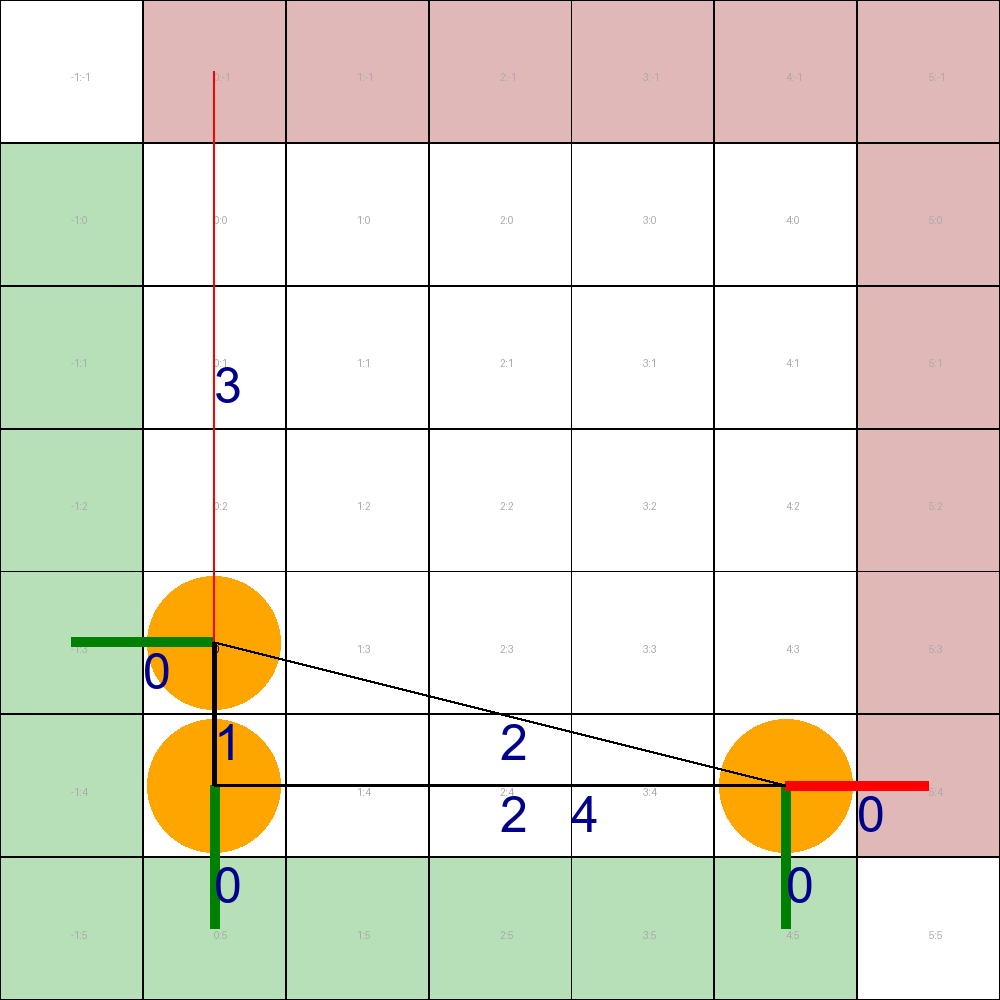
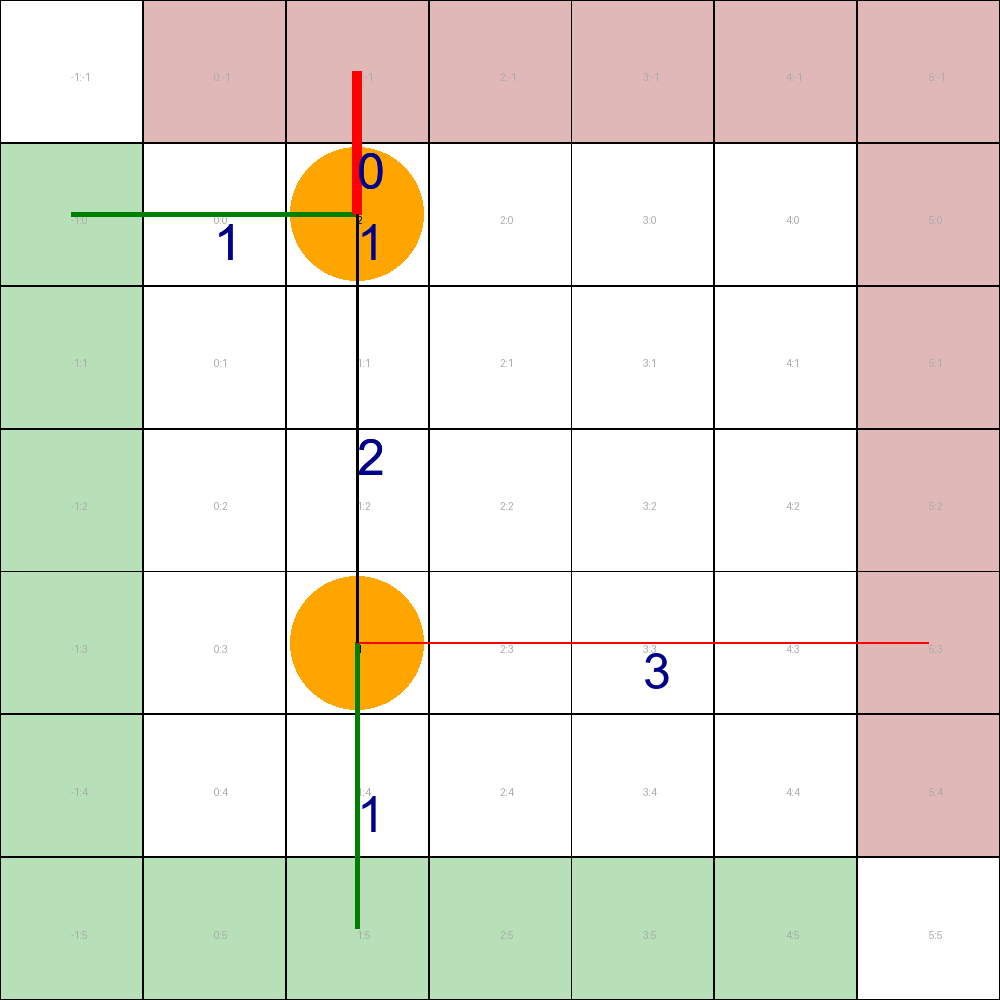
work on path_alg

diff --git a/olympiad/4/path_alg.py b/olympiad/4/path_alg.py
@@ -1,3 +1,7 @@
+def sort_dict(d, by_key=True):
+    if by_key:
+        return dict(sorted(d.items(), key=lambda item: item[1]))
+    return dict(sorted(d.items()))
 
 def fire_time(f1:tuple[int, int], f2:tuple[int, int]) -> int:
     """
@@ -44,7 +48,6 @@ def dist_from_S_E(x, y, n, ret_node_from=False):
 
     return ret_x, ret_y, min(x, n - y -1 ), min(y, n - x - 1)
 
-
 def build_fire_tree(fire_dict, n, m):
     tree = {}
     paths = {}
@@ -70,25 +73,40 @@ def build_fire_tree(fire_dict, n, m):
     tree[m] = {}
     return tree
 
-def find_path(fire_dict, n:int)-> list[int]:
-    """
+class Path:
+    def __init__(self, fire_dict_, n_:int):
+        self.fire_dict = fire_dict_
+        self.n = n_
 
-    Parameters:
-    ----------
+        self.m = len(self.fire_dict)
+        self.fire_tree = build_fire_tree(self.fire_dict, n=self.n,  m=self.m)
+        """-------------------------"""
+        self.max_path_weight = None
 
-    fires: a list with all the fire nodes positions [(x,y) ...]
+        """-------------------------"""
+        self.path = [None]
 
-    Returns
-    -------
-    path: [nodes to take from -1 to m, so min(path) is as small as possible]
+    def find_path(self)-> tuple[list[int], int]:
+        """
+        Parameters:
+        ----------
 
-    Description:
-    -------
-    1)  Build a fire_tree with the data from each node to other nodes: {node.nr: {node.nr: length to node} ... }
-    """
-    m = len(fire_dict)
-    fire_tree = build_fire_tree(fire_dict, n=n,  m=m)
+        fires: a list with all the fire nodes positions [(x,y) ...]
 
-    print(fire_tree)
+        Returns
+        -------
+        path: [nodes to take from -1 to m, so min(path) is as small as possible]
+        max_w = the maximal path length in the path
 
-    return [-1]
+        Description:
+        -------
+        1)
+
+        """
+        current_node = -1
+        sorted_ways_from_current_node = sort_dict(self.fire_tree[current_node])
+
+
+
+        return [-1], -1
+    def accessible_nodes(self, ):

diff --git a/olympiad/4/visualise.py b/olympiad/4/visualise.py
@@ -24,7 +24,7 @@ class FireImage:
         self.plot_fires()
         self.plot_fire_distances()
 
-        path = pa.find_path(self.fire_dict, self.n)
+        path, max_w = pa.Path(self.fire_dict, n_=self.n).find_path()
         self.plot_path(path)
 
         self.img.show()
